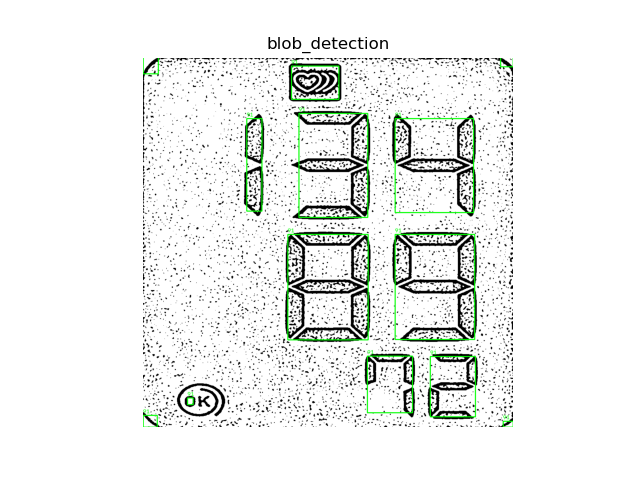
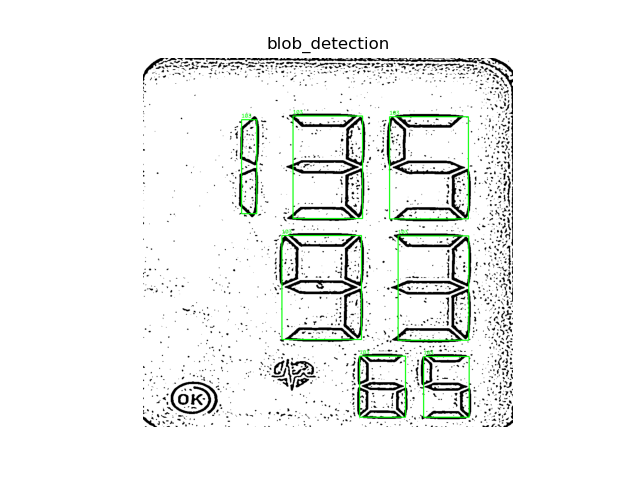
just need to cropout digits now!

Changed region(s): [[0.2188, 0.0938, 0.8125, 0.9062], [0.2812, 0.3125, 0.3125, 0.4062], [0.2812, 0.4688, 0.3125, 0.5]]

diff --git a/assignment/purcell_finn_21500358/task2.py b/assignment/purcell_finn_21500358/task2.py
@@ -92,20 +92,20 @@ def merge_blobs(blobs, distance):
         if root_a != root_b:
             parent[root_b] = root_a
 
-    # Find blobs that should be merged
+    # find blobs that should be merged
     for i in range(len(blobs)):
         for j in range(i + 1, len(blobs)):
             if boxes_close(blobs[i], blobs[j], distance):
                 union(i, j)
 
-    # Group blobs
+    # group blobs
     groups = {}
 
     for i in range(len(blobs)):
         root = find(i)
         groups.setdefault(root, []).append(blobs[i])
 
-    # Create merged bounding boxes
+    # create merged bounding boxes
     merged = []
 
     for group in groups.values():
@@ -147,26 +147,31 @@ def connectedComponentAnalysis(image):
     # Merge nearby blobs
     merged_blobs = merge_blobs(blobs, distance=30)
 
-    for x, y, w, h in merged_blobs:
-        # draw bounding box
-        cv2.rectangle(
-            marked_image,
-            (x, y),
-            (x + w, y + h),
-            (0, 255, 0),
-            2
-        )
+    filtered_blobs = []
 
-        # Draw component number
-        cv2.putText(
-            marked_image,
-            str(i),
-            (x, y - 5),
-            cv2.FONT_HERSHEY_SIMPLEX,
-            0.5,
-            (0, 255, 0),
-            1
-        )
+    for x, y, w, h in merged_blobs:
+        if h > 95:
+            filtered_blobs.append([x,y,w,h])
+
+            # draw bounding box
+            cv2.rectangle(
+                marked_image,
+                (x, y),
+                (x + w, y + h),
+                (0, 255, 0),
+                2
+            )
+
+            # Draw component number
+            cv2.putText(
+                marked_image,
+                str(i),
+                (x, y - 5),
+                cv2.FONT_HERSHEY_SIMPLEX,
+                0.5,
+                (0, 255, 0),
+                1
+            )
 
 
 
@@ -181,7 +186,7 @@ def run_task2(image_path, config):
     save_output(output_path, "Task 2 output", output_type='txt')
 
 if __name__ == "__main__":
-    image = read_im_gs("images/lcd5.png")
+    image = read_im_gs("images/lcd2.png")
 
     binary = preprocess_image(image, threshold_sauvola, windowSize=15, k=0.025)
     markedImage = connectedComponentAnalysis(binary)
